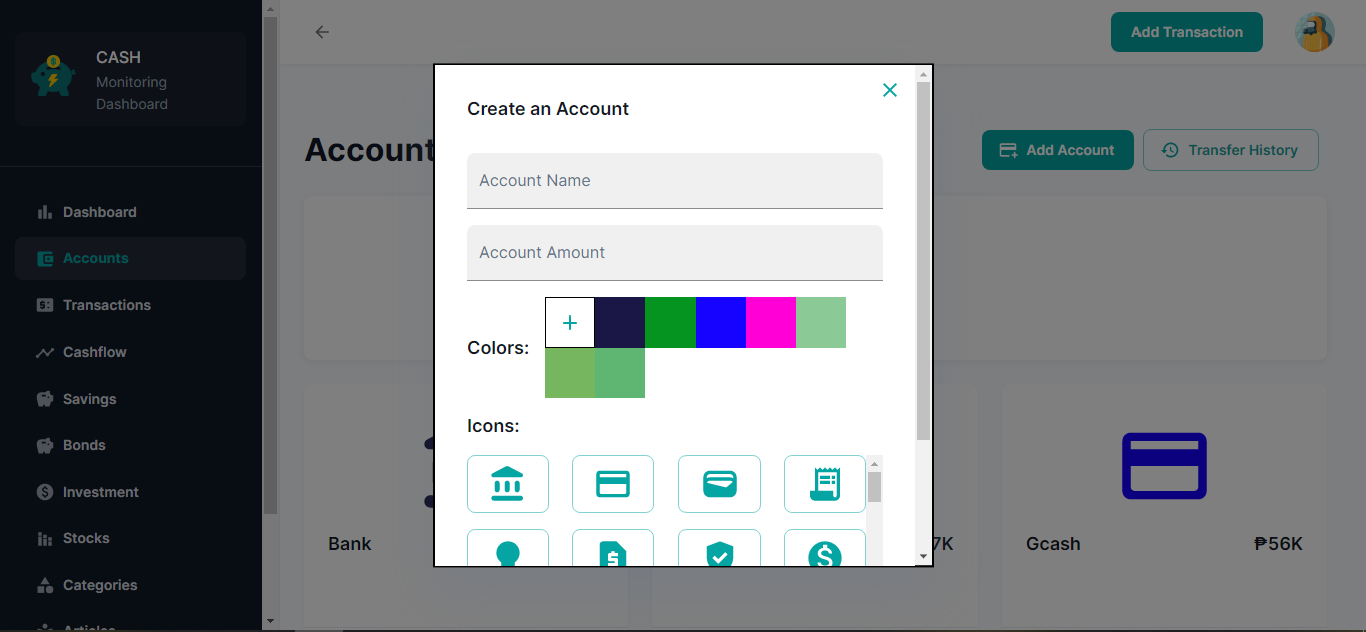
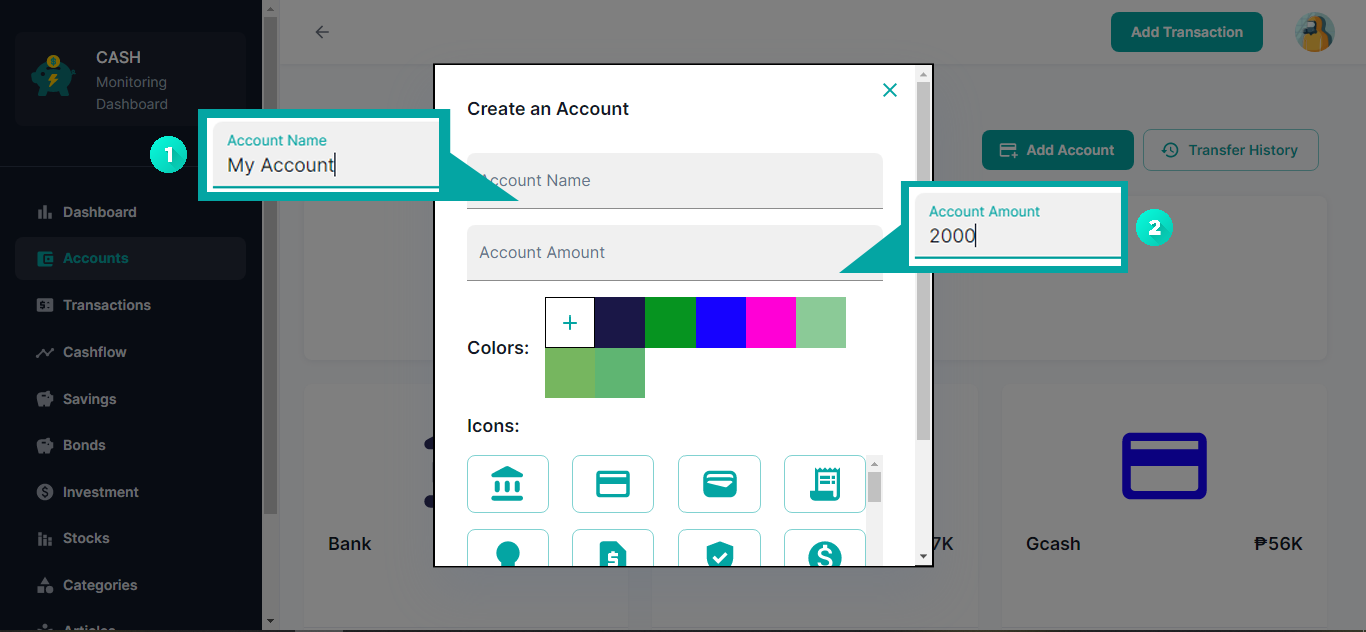
feat: added steps

Changed region(s): [[0.0922, 0.1503, 0.3997, 0.3307], [0.6149, 0.2706, 0.8609, 0.4509]]

diff --git a/src/components/tour.js b/src/components/tour.js
@@ -19,7 +19,7 @@ const TOUR_STEPS = [
         target: '.app__carousel',
         content: (
             <Typography variant='caption'>
-                To get started, you need to create an account first. Go to the accounts tab (1) and click add account (2)
+                To get started, you need to create an account first. Go to the Accounts tab (1). Click add account (2).
             </Typography>
         ),
         source: '/static/images/steps/step2.png',
@@ -29,7 +29,7 @@ const TOUR_STEPS = [
         target: '.app__carousel',
         content: (
             <Typography variant='caption'>
-                Fill up the required fields to create an account. Wait for the account to appear at the account screen
+                Fill the Account Name field (1). Fill the Account Amount field (2).
             </Typography>
         ),
         source: '/static/images/steps/step3.png',
@@ -38,7 +38,9 @@ const TOUR_STEPS = [
     {
         target: '.app__carousel',
         content: (
-            <Typography variant='caption'>Click the add transaction button to create your first transaction</Typography>
+            <Typography variant='caption'>
+                Select a Color (1). Select an Icon (2). If all fields are filled, click submit (3).
+            </Typography>
         ),
         source: '/static/images/steps/step4.png',
         placement: 'bottom'
@@ -47,11 +49,30 @@ const TOUR_STEPS = [
         target: '.app__carousel',
         content: (
             <Typography variant='caption'>
-                Fill up the fields then use the account you just created. Wait for the dashboard to appear after
-                submission.
+                After adding an account, you can now add a transaction. Click the Add Transaction.
             </Typography>
         ),
         source: '/static/images/steps/step5.png',
+        placement: 'bottom'
+    },
+    {
+        target: '.app__carousel',
+        content: (
+            <Typography variant='caption'>
+                Fill the Amount field (1). Select if Income or Expense (2). Select an Account (3). Select a Category (4).
+            </Typography>
+        ),
+        source: '/static/images/steps/step6.png',
+        placement: 'bottom'
+    },
+    {
+        target: '.app__carousel',
+        content: (
+            <Typography variant='caption'>
+                You can change the date (1). Fill the Comment field (2). You can upload a picture (3). If all fields are filled, click submit (4).
+            </Typography>
+        ),
+        source: '/static/images/steps/step7.png',
         placement: 'bottom'
     },
     {
@@ -117,6 +138,9 @@ export default function tour({ open, handleClose }) {
                 stepIndex={stepIndex}
                 steps={TOUR_STEPS}
                 styles={{
+                    tooltip:{
+                        fontSize: 14
+                    },
                     tooltipContainer: {
                         textAlign: 'left'
                     },

diff --git a/src/data/language-content.js b/src/data/language-content.js
@@ -3,7 +3,7 @@ export const languages = {
         //main screen
         balance: 'Balanse',
         expenses: 'Gastusin',
-        income: 'Sweldo',
+        income: 'Kita',
         savings: 'Ipon',
         cashflow: 'Daloy ng Pera',
         categories: 'Mga Kategorya',
@@ -28,6 +28,27 @@ export const languages = {
 
         //navbar
         addTransaction: 'Magdagdag ng Transaksiyon',
+
+        //tour
+        step1: 'Maligayang pagdating sa CASH: Financial Monitoring Application.',
+        step2_1: 'Upang makapagsimula, kailangan mong gumawa ng Account.',
+        step2_2: 'Pumunta at i-click ang Mga Lagayan ng Pera.',
+        step2_3: 'I-click ang Gumawa ng Account.',
+        step3_1: 'Punan ang Pangalan ng Account.',
+        step3_2: 'Punan ang Halagang nilalaman ng Account.',
+        step4_1: 'Pumili ng Kulay.',
+        step4_2: 'Pumili ng Icon.',
+        step4_3: 'Kung natapos na punan lahat ng kailangang impormasyon, i-click ang submit.',
+        step5: 'Pagkatapos gumawa ng Account, maaari ka ng gumawa ng transaksiyon, i-click ang Magdagdag ng Transaksiyon',
+        step6_1: 'Punan ang Halaga ng Transaksiyon.',
+        step6_2: 'Pumili kung Kita o Gastusin.',
+        step6_3: 'Pumili ng Account.',
+        step6_4: 'Pumili ng Kategorya.',
+        step7_1: 'Maaari mong baguhin ang Petsa ng Transaksiyon.',
+        step7_2: 'Punan ang Komento.',
+        step7_3: 'Maaari kang mag-upload ng larawan.',
+        step7_4: 'Kung natapos na punan lahat ng kailangang impormasyon, i-click ang submit.',
+        step8: 'Binabati kita! Natapos mo ang unang hakbang sa paggamit ng CASH.',
 
         //global
         date: 'Petsa',
@@ -145,6 +166,27 @@ export const languages = {
 
         //navbar
         addTransaction: 'Add Transaction',
+
+        //tour
+        step1: 'Welcome to CASH: Financial Monitoring Application.',
+        step2_1: 'To get started, you need to create an account first.',
+        step2_2: '1. Go to the Accounts tab.',
+        step2_3: '2. Click Add Account.',
+        step3_1: '1. Fill the Account Name field.',
+        step3_2: '2. Fill the Account Amount field.',
+        step4_1: '1. Select a Color.',
+        step4_2: '2. Select an Icon.',
+        step4_3: '3. If all fields are filled, click submit.',
+        step5: 'After adding an account, you can now add a transaction. Click the Add Transaction.',
+        step6_1: '1. Fill the Transaction Amount field.',
+        step6_2: '2. Select if Income or Expense.',
+        step6_3: '3. Select an Account.',
+        step6_4: '4. Select a Category.',
+        step7_1: '1. You can change the date.',
+        step7_2: '2. Fill the Comment field.',
+        step7_3: '3. You can upload a picture of the transaction.',
+        step7_4: '4. If all fields are filled, click submit.',
+        step8: 'Congratulations! You just started your first step in using CASH.',
 
         //global
         date: 'Date',
